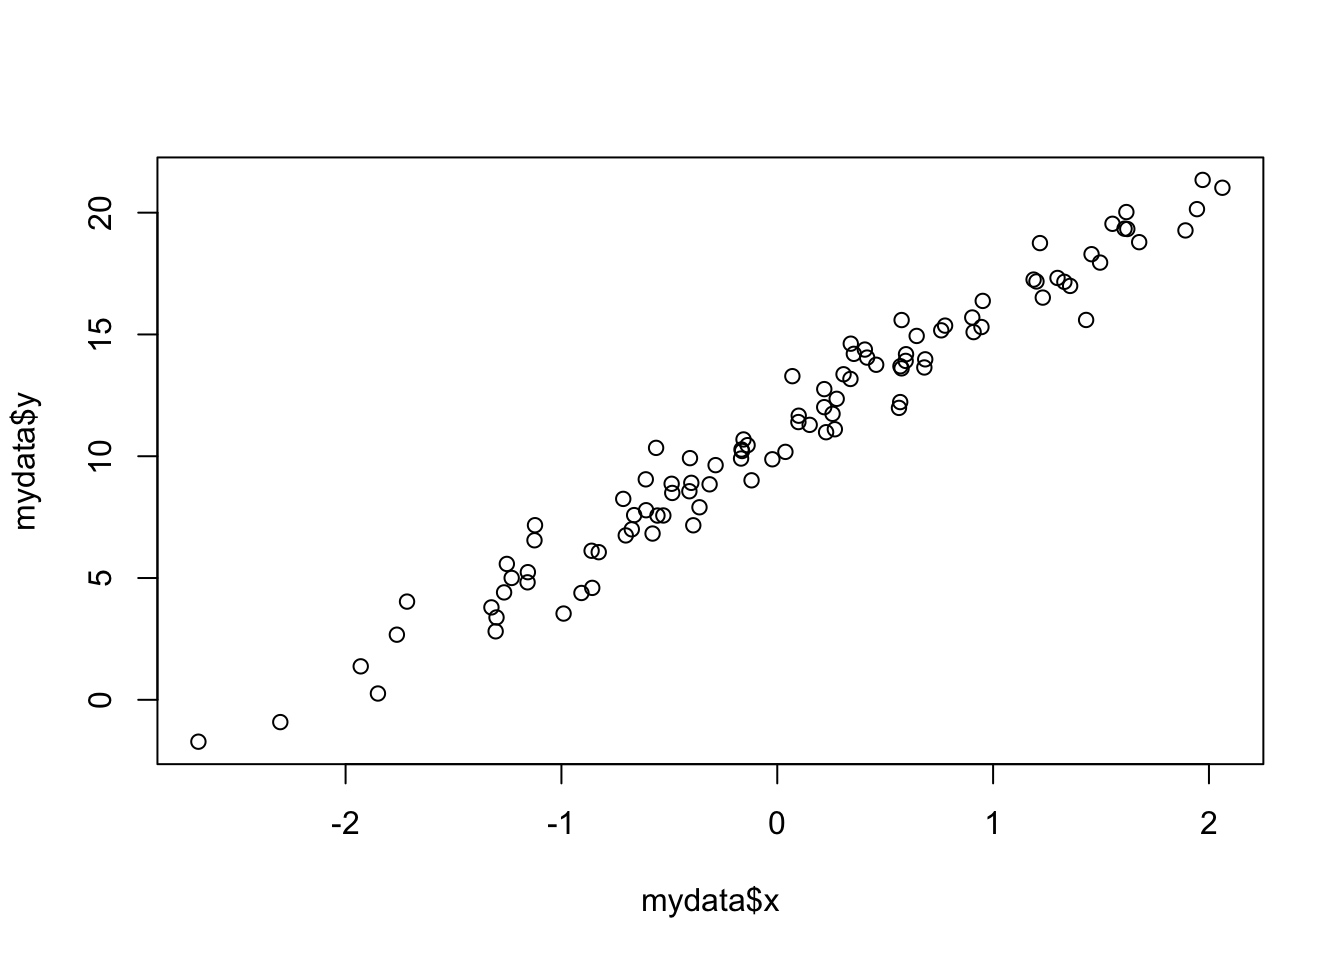
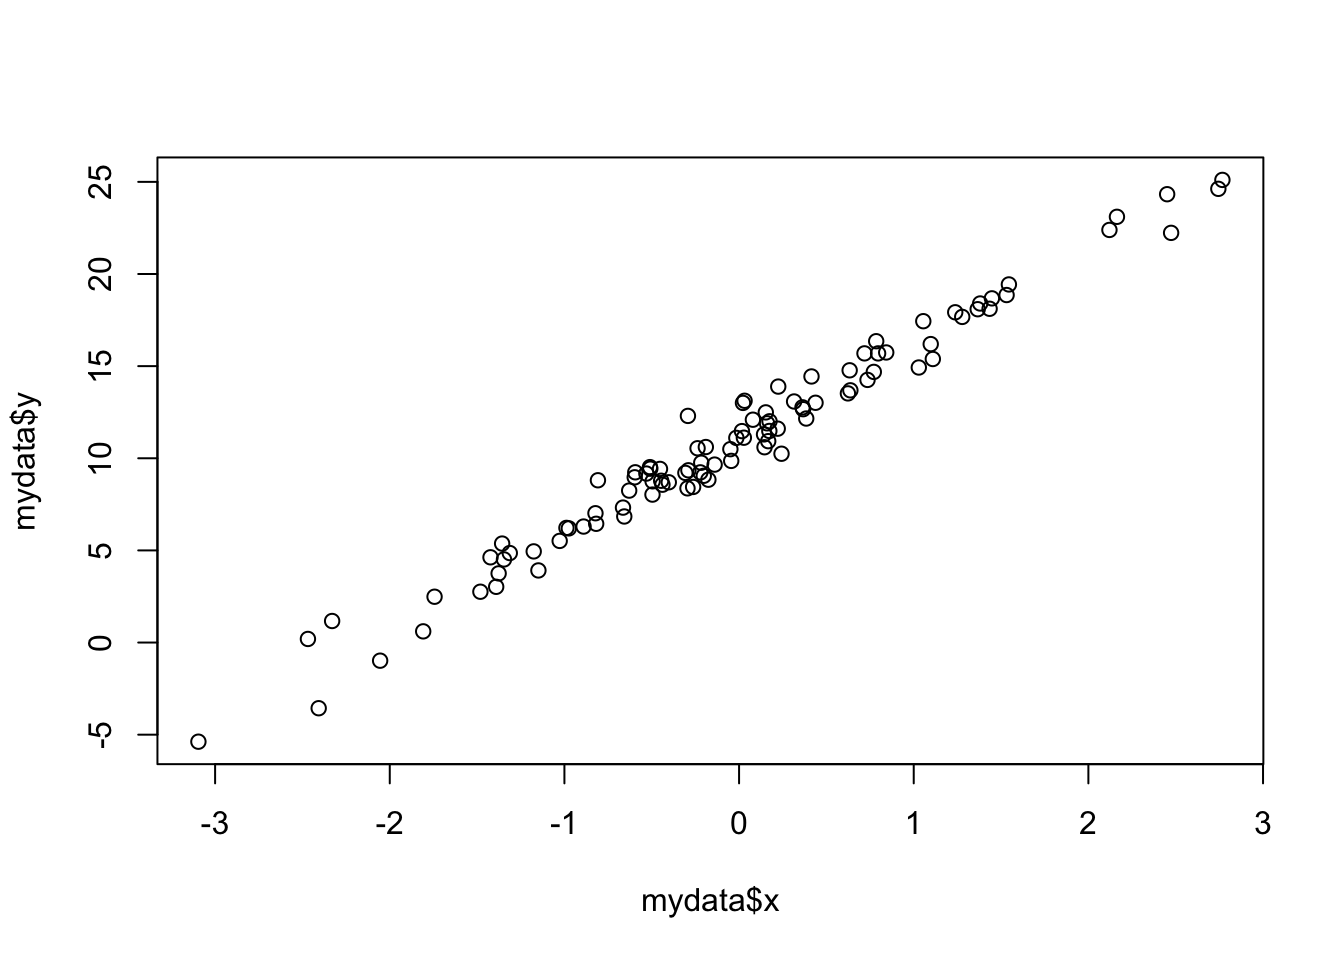
changing credit placement

diff --git a/public/week-1/index.html b/public/week-1/index.html
@@ -153,20 +153,20 @@ mydata$y = 5 * mydata$x + 11.0 + rnorm(100)
 # the expression after &quot;=&quot; just means that this y variable is populated by values that are 5 * corresponding x + 11 + a value randomly sampled from a normal distribution
 summary(mydata) </code></pre>
 <pre><code>##        x                  y         
-##  Min.   :-2.68192   Min.   :-1.719  
-##  1st Qu.:-0.62268   1st Qu.: 7.466  
-##  Median : 0.09863   Median :11.198  
-##  Mean   : 0.05413   Mean   :11.155  
-##  3rd Qu.: 0.70400   3rd Qu.:15.115  
-##  Max.   : 2.06230   Max.   :21.345</code></pre>
+##  Min.   :-3.09566   Min.   :-5.380  
+##  1st Qu.:-0.63623   1st Qu.: 8.192  
+##  Median :-0.04743   Median :10.571  
+##  Mean   :-0.03580   Mean   :10.893  
+##  3rd Qu.: 0.63418   3rd Qu.:14.300  
+##  Max.   : 2.76733   Max.   :25.106</code></pre>
 <pre class="r"><code>head(mydata) # you can see the first couple lines of your data frame - useful for seeing what kind of variables you have </code></pre>
-<pre><code>##            x         y
-## 1  0.1501718 11.288432
-## 2  0.7596645 15.168644
-## 3 -0.6740138  6.999203
-## 4  0.3405366 14.621430
-## 5 -1.7624100  2.674033
-## 6  1.6089468 19.342700</code></pre>
+<pre><code>##             x         y
+## 1  2.74409321 24.622029
+## 2  0.24298825 10.246386
+## 3 -0.82227458  7.017002
+## 4 -0.01572575 11.106717
+## 5 -1.34612579  4.510645
+## 6 -0.80809303  8.806346</code></pre>
 <pre class="r"><code>plot(x = mydata$x, y = mydata$y) # it&#39;s good to specify which data you want on the x axis and which to put on the y axis</code></pre>
 <p><img src="/week1_files/figure-html/unnamed-chunk-10-1.png" width="672" /></p>
 <p><em>Take me back to <a href="#toc">the beginning!</a></em></p>
@@ -199,8 +199,6 @@ summary(mydata) </code></pre>
 <p><img src="/week1_files/figure-html/unnamed-chunk-15-1.png" width="672" /></p>
 <pre class="r"><code>#pch = 16: determines the filled circles</code></pre>
 <p><em>Take me back to <a href="#toc">the beginning!</a></em></p>
-<p><em>This R notebook was made by Judit Kisistók.<br />
-The R exercise session was created by Palle Villesen and Thomas Bataillon at Aarhus University.</em></p>
 </div>
 </div>
 

diff --git a/content/week1.html b/content/week1.html
@@ -114,20 +114,20 @@ mydata$y = 5 * mydata$x + 11.0 + rnorm(100)
 # the expression after &quot;=&quot; just means that this y variable is populated by values that are 5 * corresponding x + 11 + a value randomly sampled from a normal distribution
 summary(mydata) </code></pre>
 <pre><code>##        x                  y         
-##  Min.   :-2.68192   Min.   :-1.719  
-##  1st Qu.:-0.62268   1st Qu.: 7.466  
-##  Median : 0.09863   Median :11.198  
-##  Mean   : 0.05413   Mean   :11.155  
-##  3rd Qu.: 0.70400   3rd Qu.:15.115  
-##  Max.   : 2.06230   Max.   :21.345</code></pre>
+##  Min.   :-3.09566   Min.   :-5.380  
+##  1st Qu.:-0.63623   1st Qu.: 8.192  
+##  Median :-0.04743   Median :10.571  
+##  Mean   :-0.03580   Mean   :10.893  
+##  3rd Qu.: 0.63418   3rd Qu.:14.300  
+##  Max.   : 2.76733   Max.   :25.106</code></pre>
 <pre class="r"><code>head(mydata) # you can see the first couple lines of your data frame - useful for seeing what kind of variables you have </code></pre>
-<pre><code>##            x         y
-## 1  0.1501718 11.288432
-## 2  0.7596645 15.168644
-## 3 -0.6740138  6.999203
-## 4  0.3405366 14.621430
-## 5 -1.7624100  2.674033
-## 6  1.6089468 19.342700</code></pre>
+<pre><code>##             x         y
+## 1  2.74409321 24.622029
+## 2  0.24298825 10.246386
+## 3 -0.82227458  7.017002
+## 4 -0.01572575 11.106717
+## 5 -1.34612579  4.510645
+## 6 -0.80809303  8.806346</code></pre>
 <pre class="r"><code>plot(x = mydata$x, y = mydata$y) # it&#39;s good to specify which data you want on the x axis and which to put on the y axis</code></pre>
 <p><img src="/week1_files/figure-html/unnamed-chunk-10-1.png" width="672" /></p>
 <p><em>Take me back to <a href="#toc">the beginning!</a></em></p>
@@ -160,7 +160,5 @@ summary(mydata) </code></pre>
 <p><img src="/week1_files/figure-html/unnamed-chunk-15-1.png" width="672" /></p>
 <pre class="r"><code>#pch = 16: determines the filled circles</code></pre>
 <p><em>Take me back to <a href="#toc">the beginning!</a></em></p>
-<p><em>This R notebook was made by Judit Kisistók.<br />
-The R exercise session was created by Palle Villesen and Thomas Bataillon at Aarhus University.</em></p>
 </div>
 </div>
